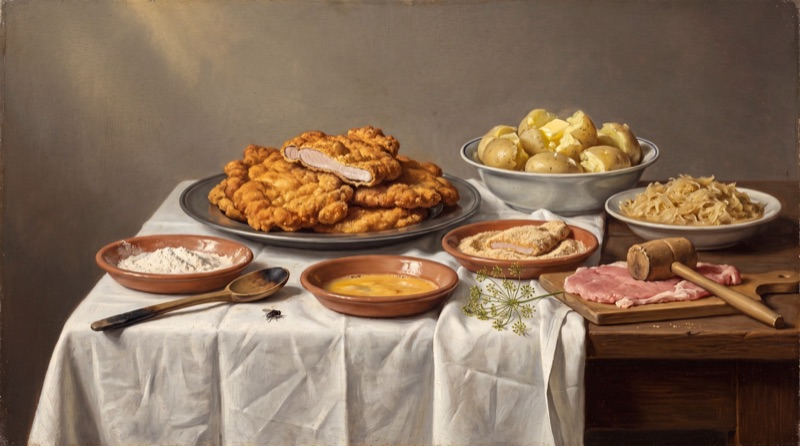
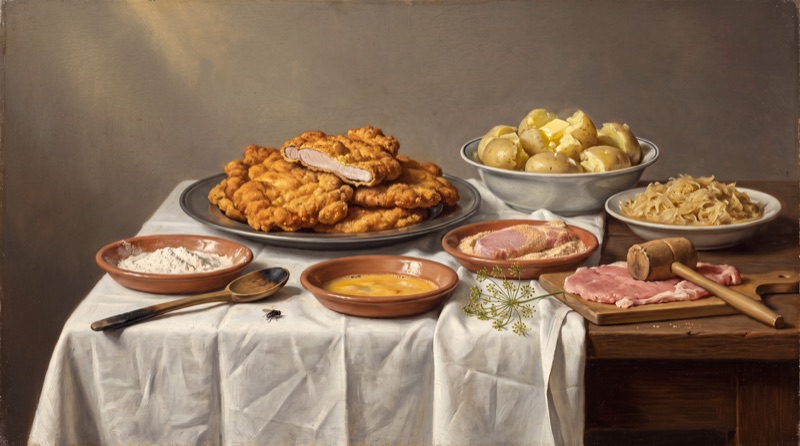
August: revised painting (whole raw pork chop being breaded in the crumb bowl)

Changed region(s): [[0.5938, 0.4955, 0.75, 0.583]]

diff --git a/public/augusts/index.html b/public/augusts/index.html
@@ -13,7 +13,7 @@
 <meta property="og:description" content="Šo un citus savas mammas Benitas gatavotos ēdienus atceras Laila Strunke no Stokholmas: “Mammas ēdiens bija garšīgs, bet viņa nelietoja receptes. Gatavoja…">
 <meta property="og:type" content="article">
 <meta property="og:url" content="https://zlk2027.latviesi.se/augusts/">
-<meta property="og:image" content="https://zlk2027.latviesi.se/img/augusts.jpg?v=e3e7e5a5">
+<meta property="og:image" content="https://zlk2027.latviesi.se/img/augusts.jpg?v=6553cb64">
 <meta name="theme-color" content="#fdfbf2">
 <link rel="icon" href="/favicon.svg" type="image/svg+xml">
 <link rel="preconnect" href="https://fonts.googleapis.com">
@@ -37,7 +37,7 @@
     <p class="year">2027</p>
     <p class="month">Augusts</p>
   </header>
-  <figure class="visual"><img src="/img/augusts.jpg?v=e3e7e5a5" srcset="/img/augusts-800.jpg?v=23b07438 800w, /img/augusts.jpg?v=e3e7e5a5 1600w" sizes="(min-width: 1200px) 1120px, 100vw" width="1600" height="893" alt="Benitas „kraupštīgā” karbonāde ar kartupeļiem un skābiem kāpostiem" fetchpriority="high"></figure>
+  <figure class="visual"><img src="/img/augusts.jpg?v=6553cb64" srcset="/img/augusts-800.jpg?v=a1d39b7b 800w, /img/augusts.jpg?v=6553cb64 1600w" sizes="(min-width: 1200px) 1120px, 100vw" width="1600" height="893" alt="Benitas „kraupštīgā” karbonāde ar kartupeļiem un skābiem kāpostiem" fetchpriority="high"></figure>
   <section class="band">
     <div class="col col-1">
       <h1 class="recipe-title">Benitas „kraupštīgā” karbonāde ar kartupeļiem un skābiem kāpostiem</h1>

diff --git a/public/en/augusts/index.html b/public/en/augusts/index.html
@@ -13,7 +13,7 @@
 <meta property="og:description" content="Laila Strunke from Stockholm remembers this and other dishes her mother Benita cooked: “Mum's food was delicious, but she never used recipes. She cooked…">
 <meta property="og:type" content="article">
 <meta property="og:url" content="https://zlk2027.latviesi.se/en/augusts/">
-<meta property="og:image" content="https://zlk2027.latviesi.se/img/augusts.jpg?v=e3e7e5a5">
+<meta property="og:image" content="https://zlk2027.latviesi.se/img/augusts.jpg?v=6553cb64">
 <meta name="theme-color" content="#fdfbf2">
 <link rel="icon" href="/favicon.svg" type="image/svg+xml">
 <link rel="preconnect" href="https://fonts.googleapis.com">
@@ -37,7 +37,7 @@
     <p class="year">2027</p>
     <p class="month">August</p>
   </header>
-  <figure class="visual"><img src="/img/augusts.jpg?v=e3e7e5a5" srcset="/img/augusts-800.jpg?v=23b07438 800w, /img/augusts.jpg?v=e3e7e5a5 1600w" sizes="(min-width: 1200px) 1120px, 100vw" width="1600" height="893" alt="Benita's crispy pork chop with potatoes and sauerkraut" fetchpriority="high"></figure>
+  <figure class="visual"><img src="/img/augusts.jpg?v=6553cb64" srcset="/img/augusts-800.jpg?v=a1d39b7b 800w, /img/augusts.jpg?v=6553cb64 1600w" sizes="(min-width: 1200px) 1120px, 100vw" width="1600" height="893" alt="Benita's crispy pork chop with potatoes and sauerkraut" fetchpriority="high"></figure>
   <section class="band">
     <div class="col col-1">
       <h1 class="recipe-title">Benita's crispy pork chop with potatoes and sauerkraut</h1>

diff --git a/public/sv/augusts/index.html b/public/sv/augusts/index.html
@@ -13,7 +13,7 @@
 <meta property="og:description" content="Den här och andra rätter som hennes mamma Benita lagade minns Laila Strunke från Stockholm: ”Mammas mat var god, men hon använde inga recept. Hon lagade på…">
 <meta property="og:type" content="article">
 <meta property="og:url" content="https://zlk2027.latviesi.se/sv/augusts/">
-<meta property="og:image" content="https://zlk2027.latviesi.se/img/augusts.jpg?v=e3e7e5a5">
+<meta property="og:image" content="https://zlk2027.latviesi.se/img/augusts.jpg?v=6553cb64">
 <meta name="theme-color" content="#fdfbf2">
 <link rel="icon" href="/favicon.svg" type="image/svg+xml">
 <link rel="preconnect" href="https://fonts.googleapis.com">
@@ -37,7 +37,7 @@
     <p class="year">2027</p>
     <p class="month">Augusti</p>
   </header>
-  <figure class="visual"><img src="/img/augusts.jpg?v=e3e7e5a5" srcset="/img/augusts-800.jpg?v=23b07438 800w, /img/augusts.jpg?v=e3e7e5a5 1600w" sizes="(min-width: 1200px) 1120px, 100vw" width="1600" height="893" alt="Benitas knapriga kotlett med potatis och surkål" fetchpriority="high"></figure>
+  <figure class="visual"><img src="/img/augusts.jpg?v=6553cb64" srcset="/img/augusts-800.jpg?v=a1d39b7b 800w, /img/augusts.jpg?v=6553cb64 1600w" sizes="(min-width: 1200px) 1120px, 100vw" width="1600" height="893" alt="Benitas knapriga kotlett med potatis och surkål" fetchpriority="high"></figure>
   <section class="band">
     <div class="col col-1">
       <h1 class="recipe-title">Benitas knapriga kotlett med potatis och surkål</h1>

diff --git a/public/index.html b/public/index.html
@@ -82,7 +82,7 @@
   <p class="credit">Laine Lasmane Wikmark, Tēbija</p>
 </a>
 <a class="card" href="/augusts/">
-  <figure class="visual"><img src="/img/augusts.jpg?v=e3e7e5a5" srcset="/img/augusts-800.jpg?v=23b07438 800w, /img/augusts.jpg?v=e3e7e5a5 1600w" sizes="(min-width: 1000px) 360px, (min-width: 560px) 50vw, 100vw" width="1600" height="893" alt="Benitas „kraupštīgā” karbonāde ar kartupeļiem un skābiem kāpostiem" loading="lazy"></figure>
+  <figure class="visual"><img src="/img/augusts.jpg?v=6553cb64" srcset="/img/augusts-800.jpg?v=a1d39b7b 800w, /img/augusts.jpg?v=6553cb64 1600w" sizes="(min-width: 1000px) 360px, (min-width: 560px) 50vw, 100vw" width="1600" height="893" alt="Benitas „kraupštīgā” karbonāde ar kartupeļiem un skābiem kāpostiem" loading="lazy"></figure>
   <p class="month-line">Augusts</p>
   <h2 class="recipe-title">Benitas „kraupštīgā” karbonāde ar kartupeļiem un skābiem kāpostiem</h2>
   <p class="credit">Laila Strunke, Stokholma</p>

diff --git a/public/en/index.html b/public/en/index.html
@@ -82,7 +82,7 @@
   <p class="credit">Laine Lasmane Wikmark, Täby</p>
 </a>
 <a class="card" href="/en/augusts/">
-  <figure class="visual"><img src="/img/augusts.jpg?v=e3e7e5a5" srcset="/img/augusts-800.jpg?v=23b07438 800w, /img/augusts.jpg?v=e3e7e5a5 1600w" sizes="(min-width: 1000px) 360px, (min-width: 560px) 50vw, 100vw" width="1600" height="893" alt="Benita's crispy pork chop with potatoes and sauerkraut" loading="lazy"></figure>
+  <figure class="visual"><img src="/img/augusts.jpg?v=6553cb64" srcset="/img/augusts-800.jpg?v=a1d39b7b 800w, /img/augusts.jpg?v=6553cb64 1600w" sizes="(min-width: 1000px) 360px, (min-width: 560px) 50vw, 100vw" width="1600" height="893" alt="Benita's crispy pork chop with potatoes and sauerkraut" loading="lazy"></figure>
   <p class="month-line">August</p>
   <h2 class="recipe-title">Benita's crispy pork chop with potatoes and sauerkraut</h2>
   <p class="credit">Laila Strunke, Stockholm</p>

diff --git a/public/sv/index.html b/public/sv/index.html
@@ -82,7 +82,7 @@
   <p class="credit">Laine Lasmane Wikmark, Täby</p>
 </a>
 <a class="card" href="/sv/augusts/">
-  <figure class="visual"><img src="/img/augusts.jpg?v=e3e7e5a5" srcset="/img/augusts-800.jpg?v=23b07438 800w, /img/augusts.jpg?v=e3e7e5a5 1600w" sizes="(min-width: 1000px) 360px, (min-width: 560px) 50vw, 100vw" width="1600" height="893" alt="Benitas knapriga kotlett med potatis och surkål" loading="lazy"></figure>
+  <figure class="visual"><img src="/img/augusts.jpg?v=6553cb64" srcset="/img/augusts-800.jpg?v=a1d39b7b 800w, /img/augusts.jpg?v=6553cb64 1600w" sizes="(min-width: 1000px) 360px, (min-width: 560px) 50vw, 100vw" width="1600" height="893" alt="Benitas knapriga kotlett med potatis och surkål" loading="lazy"></figure>
   <p class="month-line">Augusti</p>
   <h2 class="recipe-title">Benitas knapriga kotlett med potatis och surkål</h2>
   <p class="credit">Laila Strunke, Stockholm</p>
